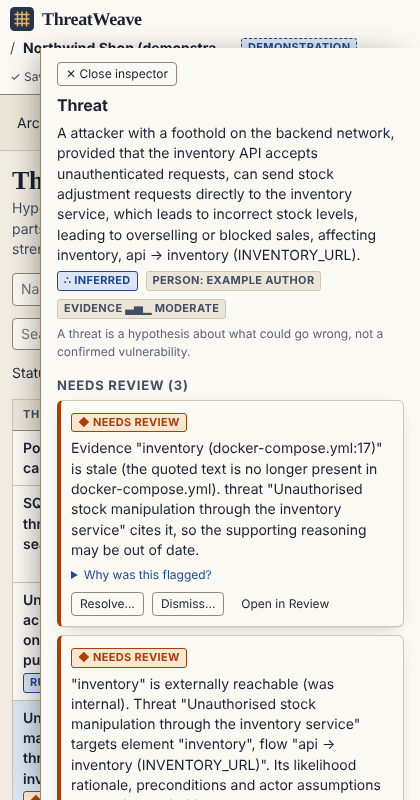
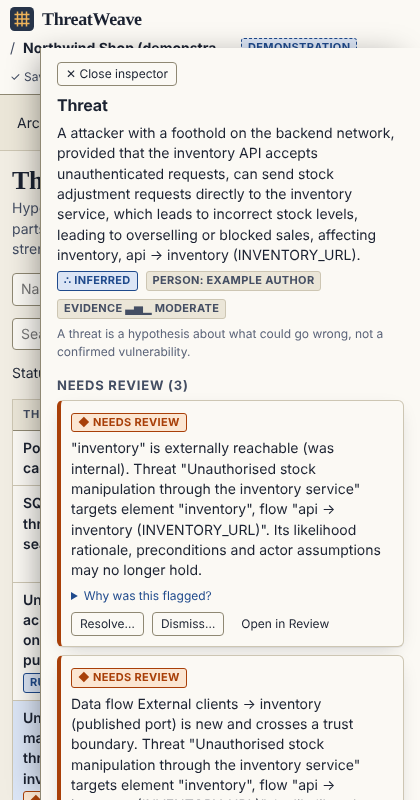
Stabilisation: docs, journey D3 (damaged project recovery), verification record
Claude-Session: https://claude.ai/code/session_017YxGxut5NZbARqTMBB1n6C

Changed region(s): [[0.1238, 0.5312, 0.9595, 1.0]]

diff --git a/e2e/journey.ts b/e2e/journey.ts
@@ -251,6 +251,22 @@ async function main() {
     ok(a.endsWith('\n') && a.indexOf('"elements"') < a.indexOf('"threats"'), 'stable key order');
   });
 
+  await step('D3 a damaged project file is shown (not hidden) and can be restored from its backup', async () => {
+    const f = join(data, 'projects', id, 'model.json');
+    const good = readFileSync(f, 'utf8');
+    ok(existsSync(f + '.bak'), 'a backup of the previous version exists');
+    writeFileSync(f, good.slice(0, 40)); // a torn write by some other tool
+    await page.goto(BASE);
+    await page.getByText(/cannot be opened/i).first().waitFor();
+    ok(await page.getByText(/valid backup of the previous version exists/i).isVisible(), 'recovery is explained');
+    await page.getByRole('button', { name: 'Restore previous version' }).click();
+    await page.getByRole('link', { name: 'Orders platform' }).waitFor();
+    ok(existsSync(f + '.damaged'), 'the damaged file was kept, not overwritten');
+    eq((await model(id)).elements.length, 4, 'project restored with its components');
+    await page.goto(`${BASE}/#/p/${id}/threats`);
+    await page.getByRole('button', { name: 'Forged order callbacks' }).waitFor();
+  });
+
   /* ---------- E. export / import ---------- */
   await step('E1 export native JSON and Markdown; the CLI validates the exported file', async () => {
     await nav(page, 'Report');
@@ -336,7 +352,7 @@ async function main() {
   });
   await step('F4 review shows the flagged assumption, threat, mitigation and boundary with the reason and trace', async () => {
     await page.getByRole('button', { name: /Review what changed/ }).click();
-    await page.getByRole('heading', { name: /Needs review/ }).waitFor();
+    await page.locator('#main').getByRole('heading', { name: /Needs review/ }).waitFor();
     for (const t of ['only reachable from the backend network', 'Unauthorised stock manipulation', 'Keep inventory off published ports', 'Compose network "backend"']) ok(await page.getByText(t).first().isVisible(), `flagged: ${t}`);
     await page.getByText('Why was this flagged?').first().click();
     ok(await page.getByText(/Deterministic: raised by comparing/).first().isVisible(), 'trace explains it is deterministic');

diff --git a/docs/VERIFICATION.md b/docs/VERIFICATION.md
@@ -5,19 +5,21 @@ What was checked, how, and what could not be. Simulated evidence is labelled as 
 ## Reproduce
 ```bash
 npm install && npm run build
-npm test            # 63 unit and integration tests (vitest)
-npm run e2e         # 37 browser steps in real Chromium against a real server process
-npm run eval:sim    # AI evaluation harness with canned output
+npm test            # 77 unit and integration tests (vitest)
+npm run e2e         # 38 browser steps in real Chromium against a real server process
+npm run eval:sim    # AI evaluation harness with canned output (writes nothing unless --save)
+npm run check       # build + tests + simulated evaluation + example validation
+npm run verify      # all of the above from a clean clone of the COMMITTED tree, plus a production-only runtime
 ```
 `npm run e2e` writes `e2e/last-run.json` and screenshots to `docs/screenshots/`. It needs Chromium (`CHROMIUM_PATH`, or `PLAYWRIGHT_BROWSERS_PATH`).
 
 ## Results (this build)
 | Suite | Result |
 |---|---|
-| Unit and integration tests | 63 passed: core 24 (Threat Composer import and export against the real schema; extraction; the change-aware scenario; mitigation invariants; serialisation), ai 18 (adapter contracts, failure modes, hostile content), server 11 (persistence, concurrency, ingestion safety, local-service hardening), cli 10 (exit codes, scenario, MCP) |
-| Browser journey (`e2e/journey.ts`) | 37 of 37 steps passed |
+| Unit and integration tests | 77 passed: core 30 (Threat Composer import and export against the real schema; extraction; the change-aware scenario; mitigation invariants; serialisation; evidence invalidation), ai 18 (adapter contracts, failure modes, hostile content), server 19 (persistence, concurrency, crash and corruption handling, ingestion safety, local-service hardening, reproducible example), cli 10 (exit codes, scenario, MCP) |
+| Browser journey (`e2e/journey.ts`) | 38 of 38 steps passed |
 | Evaluation harness, simulated variants | grounded 9/9 found, 0 unsupported, 0 fabricated; generic 2/9, 7 unsupported; fabricating 4/9, 7 fabricated citations (see `docs/AI.md`; harness validation, not a model result) |
-| Production-only runtime layout (container simulation) | Server started with `npm ci --omit=dev` and copied build output; health, static app, example project creation and CLI all worked |
+| Clean-clone reproducibility (`npm run verify`) | Passed for commit `f78ae1a`: fresh clone of committed files only, `npm ci` (241 packages), build, 77 tests, simulated evaluation, example validation, then a production-only runtime (`npm ci --omit=dev`, built output only: health, static app, example creation, CLI) and a check that no tracked file changed during build or tests |
 
 ## Requirement to evidence
 | Requirement | Evidence |
@@ -36,6 +38,9 @@ npm run eval:sim    # AI evaluation harness with canned output
 | Basic keyboard access to the primary workflow | E2E A1 and A2: reach the name field with Tab only, create a model with Enter, switch section with Alt+2, add a threat with `/` and Enter; focus outline asserted; every canvas operation also exists in the table view |
 | Provider contract tests with controlled fixtures | `packages/ai/test/analysis.test.ts` against `mock-server.ts`: request shape and headers, absence of forbidden parameters, usage, cost only when prices are set, auth, refusal, retry-after, bounded retries, timeout, cancellation, missing key |
 | Accessibility | E2E H1: axe-core (WCAG 2.0 and 2.1 A and AA rules) found no serious or critical violations on home, canvas, table, threats, assumptions, mitigations, evidence, review, source, report, the settings dialog and the review view in dark mode. H2: no horizontal page scroll at 900 and 420 px |
+| Persistence under concurrency | `persistence.test.ts`: 4 processes x 25 read-modify-write cycles land 100 of 100; an ad hoc run of 8 processes x 40 landed 320 of 320 three times; a lock left by a dead process does not block writers; concurrent snapshots number 1 to 5 without collision |
+| Crash and corruption handling | tests: previous version kept as `.bak`; a truncated model file is listed as unreadable (not hidden) and restored from the backup; a backup that does not validate is refused; stale temp files are cleaned and fresh ones are not. E2E D3 does this through the UI |
+| Evidence invalidation | core tests: stale when cited text moves to another component (the text still exists in the file), when the component is renamed, when the cited line is edited, when the file moves; **not** stale for whitespace, comments or unrelated edits; stale stays until a person re-affirms; server test: capturing a newer source for AI analysis invalidates contradicted evidence before any provider answer |
 | Credentials | server test: a saved key is never returned by the API or present in an export; ai test: a key a server echoes back never appears in a run result |
 
 ## What could not be verified here
@@ -48,6 +53,7 @@ npm run eval:sim    # AI evaluation harness with canned output
 - **Evaluation of any model.** The evaluation set is small and the matching is keyword-based. Simulated runs test the harness, not a model.
 
 ## Defects found and fixed by this verification (so they stay fixed)
+Found while building the first version:
 - A rejected import (no `warnings` array in the response) crashed the whole interface with a blank page. Fixed; E4 covers it; an error boundary now shows a recoverable message for any future render fault.
 - Pressing Enter in a single-field form did nothing, because the field blurred itself and cancelled implicit submission. Fixed.
 - Buttons disabled until a commit-on-blur field changed were skipped by Tab. Fixed with live fields where a button depends on the value.
@@ -58,3 +64,18 @@ npm run eval:sim    # AI evaluation harness with canned output
 - Escape did not close a dialog unless focus was inside it. Fixed; asserted in H1.
 - Form labels wrapped their `<select>` so accessible names included option text. Fixed.
 - The canvas "＋ Boundary" button only switched view; "Show on diagram" in Review did not leave Review. Fixed; B5 and F9 cover them.
+- The inspector drawer covered the page at phone width even with nothing selected. Fixed; asserted in H2.
+
+Found by the stabilisation milestone (each with a failing test written first):
+- **Lost updates across processes.** The web server, CLI and MCP server could all write one project with no cross-process lock; four processes lost updates. Now every write takes a lock file, and writes are flushed and atomically replaced.
+- **No recovery from a damaged file.** A torn write left no backup, and the old UI listed the project as an empty model ("0 components") instead of saying it could not be opened. Now the previous version is kept as `.bak`, the project is shown as unreadable with its reason, and restore is one click or `threatweave restore`.
+- **Concurrent snapshots could collide** on revision numbers and were not written atomically. Now serialised and atomic.
+- **Evidence invalidation had false negatives.** It only asked whether the quote existed somewhere in the file, so text moved to another service, or a renamed service, stayed "valid". Evidence is now anchored to the component it was captured for and re-checked against what the current files say about it. Unanchored evidence still gets only the weaker file-level check, and that is stated in the UI.
+- **The bundled example could not be reproduced** (wall-clock times and random ids), and `npm run eval:sim` rewrote tracked result files on every run. Both are now deterministic; a test asserts the committed example is byte-identical to a regeneration.
+- **Process error:** I ran a browser journey against a stale web bundle after editing the home page without rebuilding it. The journey caught it (it showed the damaged project as empty), but the lesson is that `npm run check` and `npm run verify` build first.
+
+## Still not verified
+- The lock was exercised on one machine, one local filesystem, Linux. Network file systems, Windows and macOS were not tested, and advisory locking is documented as unsupported on network shares.
+- Only Node 22.22.0 was tested. `engines` allows 20.3 and later; that range is untested.
+- The Dockerfile now pins `node:22.22.0-slim`, but the image was not built (no Docker daemon). No image digest is pinned.
+- Evidence checks for unanchored evidence (documents, accepted AI citations) remain file-level.

diff --git a/docs/ARCHITECTURE.md b/docs/ARCHITECTURE.md
@@ -17,7 +17,7 @@ Dependency direction: `web, cli, server -> ai -> core`. `core` imports nothing f
 ## Decisions
 
 ### Storage: one deterministic JSON file per project
-`<data>/projects/<id>/model.json`, plus immutable snapshots in `revisions/`. Chosen over SQLite because the product's value depends on Git-reviewable models and portability: the file is the model. Cost: no queries across projects and no cross-process locking. Writes are atomic (temp file and rename) and serialised per project inside the server. The save endpoint requires `If-Match` with the loaded etag and returns 409 on a stale write; the web session replays its pending edits onto the newer file instead of overwriting it.
+`<data>/projects/<id>/model.json`, plus immutable snapshots in `revisions/`. Chosen over SQLite because the product's value depends on Git-reviewable models and portability: the file is the model. Cost: no queries across projects and no cross-process locking. Every write goes through one path that takes an in-process queue and a cross-process lock file (exclusive create; a lock whose owner has died or that is older than 30 s is taken over), writes a temp file, flushes it, atomically renames it over the model, flushes the directory, and keeps the previous good version as `model.json.bak`. Because the web server, CLI and MCP server may all write the same project, this is what prevents lost updates (tested: 8 processes, 320 read-modify-write cycles, all land). Temp files from interrupted writes are removed on start. A project whose file no longer validates is listed as unreadable with its reason, never dropped, and can be restored from the backup (`threatweave restore <id>`, or the button on the home page); the damaged file is kept as `model.json.damaged`. The save endpoint still requires `If-Match` with the loaded etag and returns 409 on a stale write; the web session replays its pending edits onto the newer file instead of overwriting it.
 
 Determinism (`canonical.ts`): schema key order, entity collections sorted by id, order-insensitive lists sorted, free-form maps key-sorted, no timestamps on the root. Ids are readable and stable (`thr_forged-callbacks-3fa1`), never change on rename, and for source-derived entities are computed from a stable key so rescanning yields the same ids. Reloading and saving an unchanged model writes the same bytes (tested).
 
@@ -40,7 +40,7 @@ Chosen for accessible-by-default nodes (focusable, keyboard movable), custom nod
 `diffModels` compares semantic fields of two models. `deriveReviewItems` walks explicit relationships from each change (component to its flows, boundaries, threats, assumptions; threats to their mitigations; evidence to everything citing it), each item carrying a human-readable trace. Items have deterministic ids, so repeating a comparison creates nothing new and never reopens an item a person closed. This is intentionally not attack-path analysis.
 
 ### Source analysis
-`extract.ts` parses Docker Compose and Kubernetes YAML as data (no execution), records evidence with file, line range, a redacted quote and a content hash, and emits source-keyed elements, flows and boundaries. `sync.ts` merges by stable key: human edits and links survive, a human override of exposure is pinned against rescans, components that disappear are flagged rather than deleted, and evidence whose quoted text vanished is marked stale.
+`extract.ts` parses Docker Compose and Kubernetes YAML as data (no execution), records evidence with file, line range, a redacted quote and a content hash, and emits source-keyed elements, flows and boundaries. `sync.ts` merges by stable key. Scanned evidence records an `anchor` (the source key of the component, flow or boundary it was captured for). On each new source, old anchored evidence stays valid only if re-deriving that same thing from the current files still yields the cited text, which catches moved text, renames and in-place edits while ignoring whitespace, comments and unrelated edits; unanchored evidence gets a weaker file-level check. Merging works like this: human edits and links survive, a human override of exposure is pinned against rescans, components that disappear are flagged rather than deleted, and evidence whose quoted text vanished is marked stale.
 
 `server/ingest.ts` enforces the filesystem boundary: directories only, no symlinks followed, no archives, depth/entry/size limits, secret-looking filenames never opened, VCS revision read from `.git` files without running git.
 

diff --git a/README.md b/README.md
@@ -33,6 +33,10 @@ node packages/cli/dist/bin.js serve        # http://localhost:4317, data in ./.t
 
 To start your own model, use **New model** on the home page, or import a `.threatweave.json` or Threat Composer `.tc.json` file.
 
+### Reproducible install
+
+`.nvmrc` pins Node 22 (tested with 22.22.0); `engines` requires 20.3 or later and `engine-strict` is on. Use `npm ci`, which fails if `package-lock.json` and `package.json` disagree. `npm run check` builds, tests and runs the simulated evaluation. `npm run verify` clones the **committed** tree into an empty directory and proves it installs, builds, passes its tests, runs with production dependencies only, and leaves tracked files unchanged (needs registry access).
+
 ### Container
 
 ```bash
@@ -80,9 +84,9 @@ Read these before you rely on the output.
 - **Not an attack-path tool.** Review flags follow explicit links (a flagged component leads to threats and assumptions that reference it, its flows and its boundaries). Anything you did not link is not found. Coverage is incomplete by design.
 - **Source input is narrow.** Docker Compose and Kubernetes manifests only (Deployment, StatefulSet, DaemonSet, Service, Ingress). No Terraform, CloudFormation, Helm, Kustomize, or application source. NetworkPolicy is noted but not evaluated. Exposure from published ports means reachable from the host's network, which may or may not be the internet.
 - **Heuristics.** Data stores are recognised from image names; flows are inferred from environment URLs and `depends_on`; these are marked as inferred.
-- **Evidence staleness is textual.** Evidence goes stale when its quoted text is gone from the file. A semantic change that leaves the text intact is not detected.
+- **Evidence staleness is textual.** Scanned evidence is tied to the component it was captured for and goes stale when that component's cited text is edited or moves, or the component is renamed or removed; whitespace, comments and unrelated edits do not trigger it. A semantic change that leaves the cited text intact is not detected. Evidence without an anchor (documents, accepted AI citations) is checked at file level only: it goes stale if the file or the quote disappears, not if the quote moves to unrelated content. Staleness is cleared only by a person.
 - **AI quality is unproven.** The small evaluation set can show failure modes, not general quality. See docs/AI.md.
-- **Single user, local.** No authentication, no multi-user editing, no real-time collaboration. Two processes writing the same project at the same instant can lose an update (the web app detects and merges its own conflicts; the MCP server and CLI do not take a cross-process lock).
+- **Single user, local.** No authentication, no multi-user editing, no real-time collaboration. Writes from the web server, CLI and MCP server are serialised with a cross-process lock and are crash-safe (flushed to disk, atomically replaced, previous version kept as `model.json.bak`); this was tested with eight processes making 320 concurrent updates. The lock is advisory and local: it does not protect a project directory on a network share, or a tool that edits the file without using ThreatWeave.
 - **Credentials are stored in plaintext** in the data directory (mode 0600) if you save them in the app. Prefer environment variables.
 - **Threat Composer round trips are not lossless.** Import keeps threats, mitigations, assumptions, links and ids; the architecture images, brainstorm notes and unknown fields are not converted. Export drops structure, judgements, evidence and provenance and tells you so.
 - **Accessibility.** An automated audit (axe-core) and a keyboard walkthrough pass on the main views; there has been no testing with assistive technology or users.

diff --git a/docs/OPERATIONS.md b/docs/OPERATIONS.md
@@ -14,9 +14,12 @@ To keep models in a repository, point `--data` at a directory in that repository
 Back up by copying the directory. Deleting a project in the UI removes its directory and revisions; it asks first and cannot be undone.
 
 ## Recovery
+- Every successful write keeps the previous good version as `model.json.bak`. Writes are flushed to disk and atomically replaced, so a crash leaves either the old file or the new one.
+- If `model.json` is damaged (torn write by another tool, disk fault, bad manual edit), the project is listed on the home page as **Cannot be opened**, with the reason. If a valid backup exists, **Restore previous version** (or `threatweave restore <project-id> --data DIR`) puts it back and keeps the damaged file as `model.json.damaged`. A backup that does not validate is never restored. You lose only the last write.
 - A save that fails validation is refused with the reasons; the file on disk is untouched.
 - A run left `running` by a crash or restart is marked `failed (interrupted)` on the next start.
-- If a file is edited by hand and no longer validates, the project is skipped in the list and `threatweave validate <file>` prints why. The server never deletes it.
+- Temp files from interrupted writes are removed on start (only those older than a minute).
+- Several processes can write the same project (web server, CLI, MCP): writes take a lock file `<project>/.lock`. A lock left by a dead process, or older than 30 seconds, is taken over automatically. If a writer waits 15 seconds it fails with "locked by another process" and changes nothing. The lock is advisory and local: do not put the data directory on a network share.
 
 ## Container
 `docker compose up --build` publishes `127.0.0.1:4317` only. The data volume is `threatweave-data`. To analyse a local folder, uncomment the read-only bind mount in `docker-compose.yml`; set the path in the Source tab to `/sources/repo`. `THREATWEAVE_SOURCE_ROOTS` limits which directories can be scanned.
@@ -36,7 +39,7 @@ Kubernetes is not required and no manifests are provided.
 | `THREATWEAVE_BIND_ACK=1` | Suppress the non-loopback bind warning (set in the container image) |
 
 ## MCP
-`threatweave mcp --data DIR` speaks MCP over stdio. Tools: `list_projects`, `get_model_summary`, `validate_model`, `list_review_items`, `list_proposals`, `list_revisions`, `compare_models`, `submit_proposals`. There is deliberately no tool to accept or reject anything, change a status, or edit the model. `submit_proposals` validates input like AI output and stores pending proposals; file evidence cannot be asserted through MCP so they arrive as hypotheses. The MCP process and a running web server can write the same project; a simultaneous write can lose an update.
+`threatweave mcp --data DIR` speaks MCP over stdio. Tools: `list_projects`, `get_model_summary`, `validate_model`, `list_review_items`, `list_proposals`, `list_revisions`, `compare_models`, `submit_proposals`. There is deliberately no tool to accept or reject anything, change a status, or edit the model. `submit_proposals` validates input like AI output and stores pending proposals; file evidence cannot be asserted through MCP so they arrive as hypotheses. The MCP process, the CLI and a running web server can write the same project; writes are serialised by the cross-process lock.
 
 Example client configuration:
 ```json

diff --git a/CLAUDE.md b/CLAUDE.md
@@ -4,7 +4,7 @@ Keep this file short. Verified, reusable lessons only. Progress and incident det
 
 ## Commands
 - `npm install && npm run build` (tsc project builds, then the Vite web build)
-- `npm test` (vitest: core, ai, server)
+- `npm test` (vitest: core, ai, server, cli); `npm run check` (build, tests, simulated eval); `npm run verify` (clean clone of the COMMITTED tree; commit first)
 - `npm run e2e` (real Chromium against a real server; needs a build first; set `CHROMIUM_PATH` if Chromium is not in `PLAYWRIGHT_BROWSERS_PATH`)
 - `node packages/cli/dist/bin.js serve` then open http://localhost:4317
 
@@ -13,6 +13,9 @@ Keep this file short. Verified, reusable lessons only. Progress and incident det
 - Edits are pure functions `(Model) => Model` (see `ops.ts`, `proposals.ts`). The web session replays pending ops on top of a newer file after a 409.
 - Provider SDKs and formats stay inside `packages/ai`. Model identifiers are configuration; never hard-code one.
 - Model output goes through `ingestAiOutput` only. It must never reach the model un-validated, never create entities directly, never set mitigation status.
+- Project files are written only through `Store` (lock, flush, atomic rename, `.bak`). Never `writeFile` a model or settings file directly: the web server, CLI and MCP server write the same files.
+- Evidence from a scan carries an `anchor`; staleness compares against what the current files say about that anchor, not just whether the quote exists in the file. Staleness is sticky and cleared only by a person.
+- Generated files must be reproducible: `npm run examples` uses a fixed clock and seeded ids, and a test asserts the committed example is byte-identical to a regeneration. `npm run eval:sim` writes nothing unless `--save`.
 
 ## Security constraints (permanent)
 - A mitigation can be `implemented`/`verified` only with a named person or import in `statusSetBy`; `verified` needs evidence. AI and rule-pack mitigations start `proposed`.
@@ -25,4 +28,5 @@ Keep this file short. Verified, reusable lessons only. Progress and incident det
 - A button disabled until a commit-on-blur field changes is skipped by Tab. Use `TextField live` when a control depends on the value.
 - Threat Composer's own `ThreatComposer.tc.json` example contains links to threats that do not exist. The importer skips and reports them; tests assert the exact count.
 - Do not `pkill -f <pattern>` where the pattern appears in your own command line.
+- A lock must be tested across processes, not just in-process promises: a 4-process read-modify-write test exposed lost updates that single-process tests could not.
 - Prefer env-var `ANTHROPIC_BASE_URL` awareness: the adapter always passes an explicit base URL so the disclosed host is the real host.

diff --git a/docs/CHECKPOINT.md b/docs/CHECKPOINT.md
@@ -9,11 +9,13 @@ Temporary progress notes. Durable lessons live in `CLAUDE.md`.
 - Web: canvas and table, inspector, threats, assumptions, mitigations with attestation dialogs, evidence, review with grouped items and proposals, compare, source, settings, report, import preview, undo and redo, light and dark.
 - CLI and MCP server sharing the same core. Docs, Dockerfile and compose file, CI workflow.
 - Browser journey (`npm run e2e`): see `docs/VERIFICATION.md` for the latest result.
+- Stabilisation milestone: cross-process locking, crash-safe writes, backup and restore, anchored evidence invalidation, deterministic example, clean-clone `npm run verify`. All covered by tests written first.
 
 ## Remaining and known gaps
 - Not verified live: both AI adapters (no credentials in the build environment). Run `npm run live:check`.
-- Not verified: the Docker image build (no Docker daemon). The runtime layout was simulated with production dependencies only.
-- No assistive-technology or user testing. No cross-process file lock for MCP/CLI writes next to a running server.
+- Not verified: the Docker image build (no Docker daemon). The runtime layout is exercised by `npm run verify` with production dependencies only.
+- Unanchored evidence (documents, accepted AI citations) is only checked at file level. Candidate: assign an anchor at acceptance time by locating the cited lines inside a component's block.
+- No assistive-technology or user testing. The file lock is advisory, local, and tested on Linux only.
 - Source support is Compose and Kubernetes only. NetworkPolicy is noted, not evaluated.
 - No schema migrations yet (only schema version 1 exists).
 - Large-model canvas performance and layout quality untested beyond tens of components.

diff --git a/docs/SCHEMA.md b/docs/SCHEMA.md
@@ -15,7 +15,7 @@ All carry stable ids with a type prefix and are serialised sorted by id.
 | `assumptions` | `asm_` | Assumptions and open questions, with `relatesTo` references |
 | `threats` | `thr_` | Source, preconditions, action, consequence, STRIDE, `targets`, likelihood and impact with rationale, `evidenceStrength`, `basis`, `status` |
 | `mitigations` | `mit_` | `status`, `statusSetBy`, `threatIds`, `assumptionIds`, verification plan and evidence |
-| `evidence` | `ev_` | Kind, summary, path, line range, quote, revision, content hash, `stale` |
+| `evidence` | `ev_` | Kind, summary, path, line range, quote, revision, content hash, optional `anchor` (source key it was captured for), `stale` and `staleReason` |
 | `sources` | `src_` | Captured directory snapshots: revision digest, VCS revision, file hashes |
 | `proposals` | `prp_` | Pending, accepted, rejected suggestions with reasoning and verified evidence |
 | `reviewItems` | `rvw_` | What needs review, why, and the relationship trace |

diff --git a/CONTRIBUTING.md b/CONTRIBUTING.md
@@ -5,6 +5,8 @@
 npm install
 npm run build        # tsc project builds, then the Vite web build
 npm test             # vitest
+npm run check        # build, tests, simulated evaluation, example validation
+npm run verify       # clean clone of the committed tree: npm ci, build, tests, production-only runtime, tracked files unchanged
 npm run e2e          # real Chromium against a real server (needs a build; see CLAUDE.md for CHROMIUM_PATH)
 npm run dev:web      # Vite dev server on :5173, proxies /api to a server on :4317
 node packages/cli/dist/bin.js serve   # the API server
